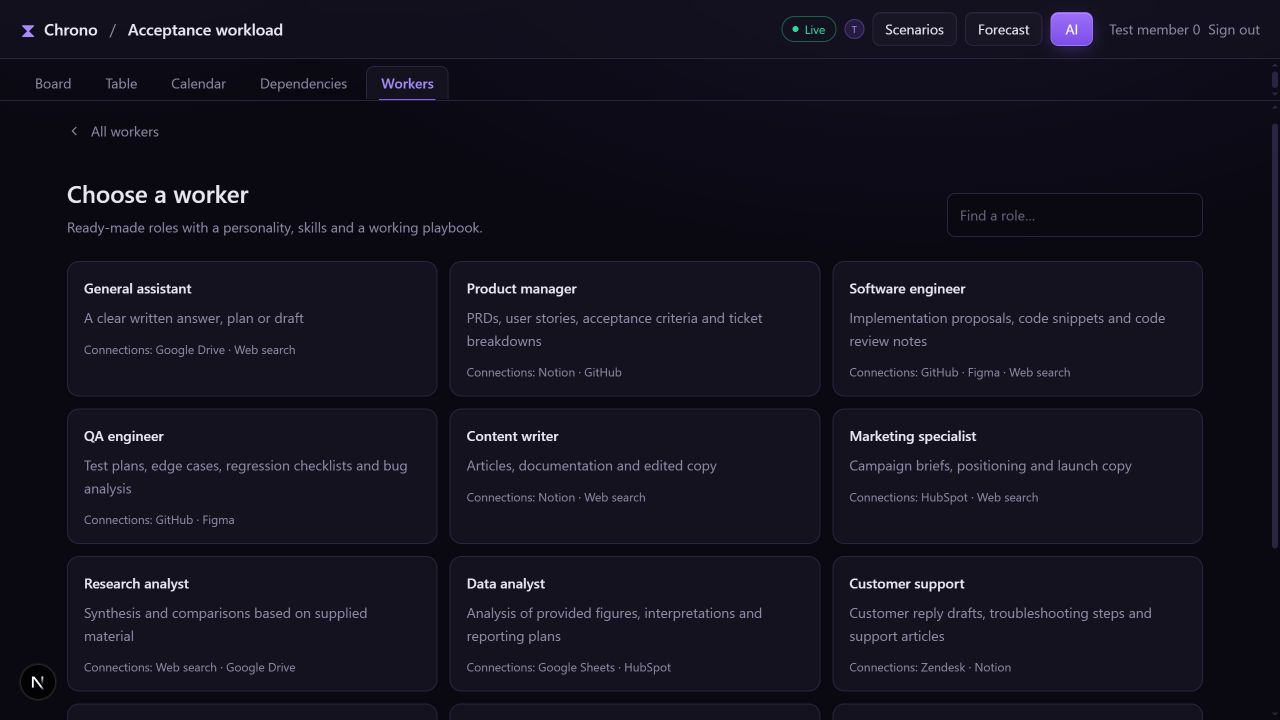
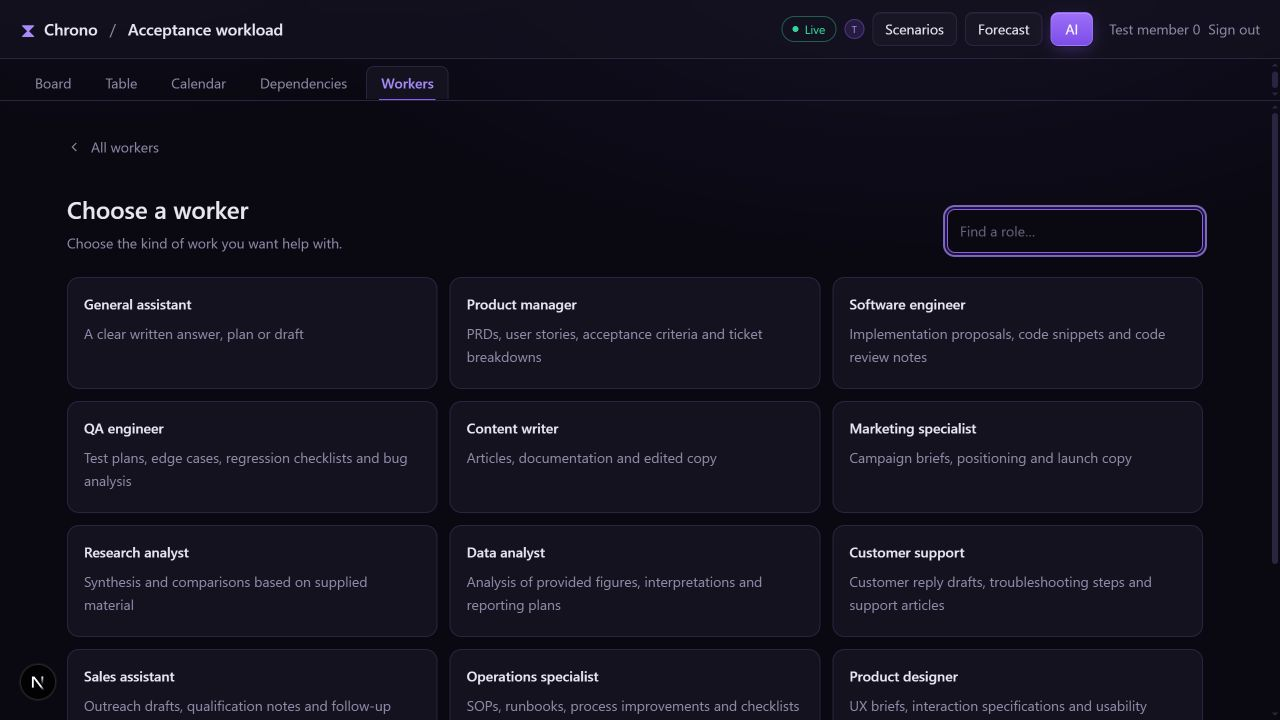
Show the simplified worker chooser and shared tool setup (#10)

diff --git a/docs/AI_WORKERS.md b/docs/AI_WORKERS.md
@@ -10,6 +10,11 @@ Choose a profession, name the worker, authorize relevant accounts and assign a
 ticket. Team preferences and advanced matching/capacity settings are optional.
 Customers do not need to assemble a system prompt or maintain skill documents.
 
+The chooser focuses on each role's deliverable. Tool accounts are managed once
+in Connections; shared connector names are not repeated on every role card.
+Selected-role details show its connected tools, with optional web research
+available on demand.
+
 Twelve role packages contain 41 Markdown skill modules. Each includes a persona,
 working playbook, specialist methods, tool-use guidance, completion checks and
 expected deliverables. Engineering has eight modules spanning implementation,
